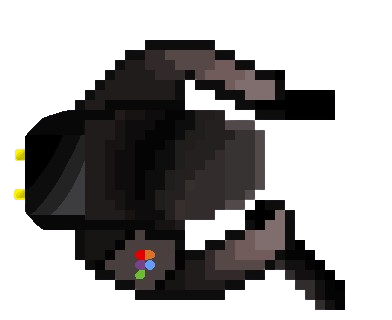
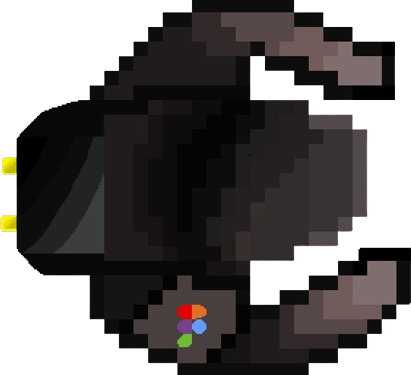
added revolver asset

diff --git a/JS/Player/Person.js b/JS/Player/Person.js
@@ -93,16 +93,16 @@ class Person {
   shoot() {
     this.#setXY();
 
-    const bulletEl = new Bullet(
+    const bullet = new Bullet(
       this.centerX,
       this.centerY,
       "./assets/bullet.png",
     );
-    const bulletElem = bulletEl.buildBullet();
-    bulletElem.style.position = "absolute";
-    bulletElem.style.left = this.centerX + player.width + "px";
-    bulletElem.style.top = this.centerY + player.width + "px";
-    bulletElem.style.transform = `rotate(${this.angle}deg)`;
+    const bullet = Bullet.buildBullet();
+    bullet.style.position = "absolute";
+    bullet.style.left = this.centerX + player.width + "px";
+    bullet.style.top = this.centerY + player.width + "px";
+    bullet.style.transform = `rotate(${this.angle}deg)`;
 
     const angle = Math.atan2(
       this.mouseY - this.centerY,
@@ -110,14 +110,14 @@ class Person {
     );
     const bulletSpeed = 10;
 
-    bulletElem.currentX = this.centerX;
-    bulletElem.currentY = this.centerY;
-    bulletElem.vx = Math.cos(angle) * bulletSpeed;
-    bulletElem.vy = Math.sin(angle) * bulletSpeed;
+    Bullet.currentX = this.centerX;
+    Bullet.currentY = this.centerY;
+    Bullet.vx = Math.cos(angle) * bulletSpeed;
+    Bullet.vy = Math.sin(angle) * bulletSpeed;
 
     const mapElement = document.getElementById("map");
-    if (mapElement) mapElement.append(bulletElem);
-    return bulletElem;
+    if (mapElement) mapElement.append(Bullet);
+    return Bullet;
   }
 }
 

diff --git a/JS/main.js b/JS/main.js
@@ -24,12 +24,7 @@ const createPlayer = (map, x, y, img) => {
   map.append(mainFig.entity);
   return mainFig;
 };
-const player = createPlayer(
-  map,
-  10,
-  10,
-  "./assets/player/player-default_copy.png",
-);
+const player = createPlayer(map, 10, 10, "./assets/player/player-default.png");
 
 const keys = {
   ArrowUp: false,